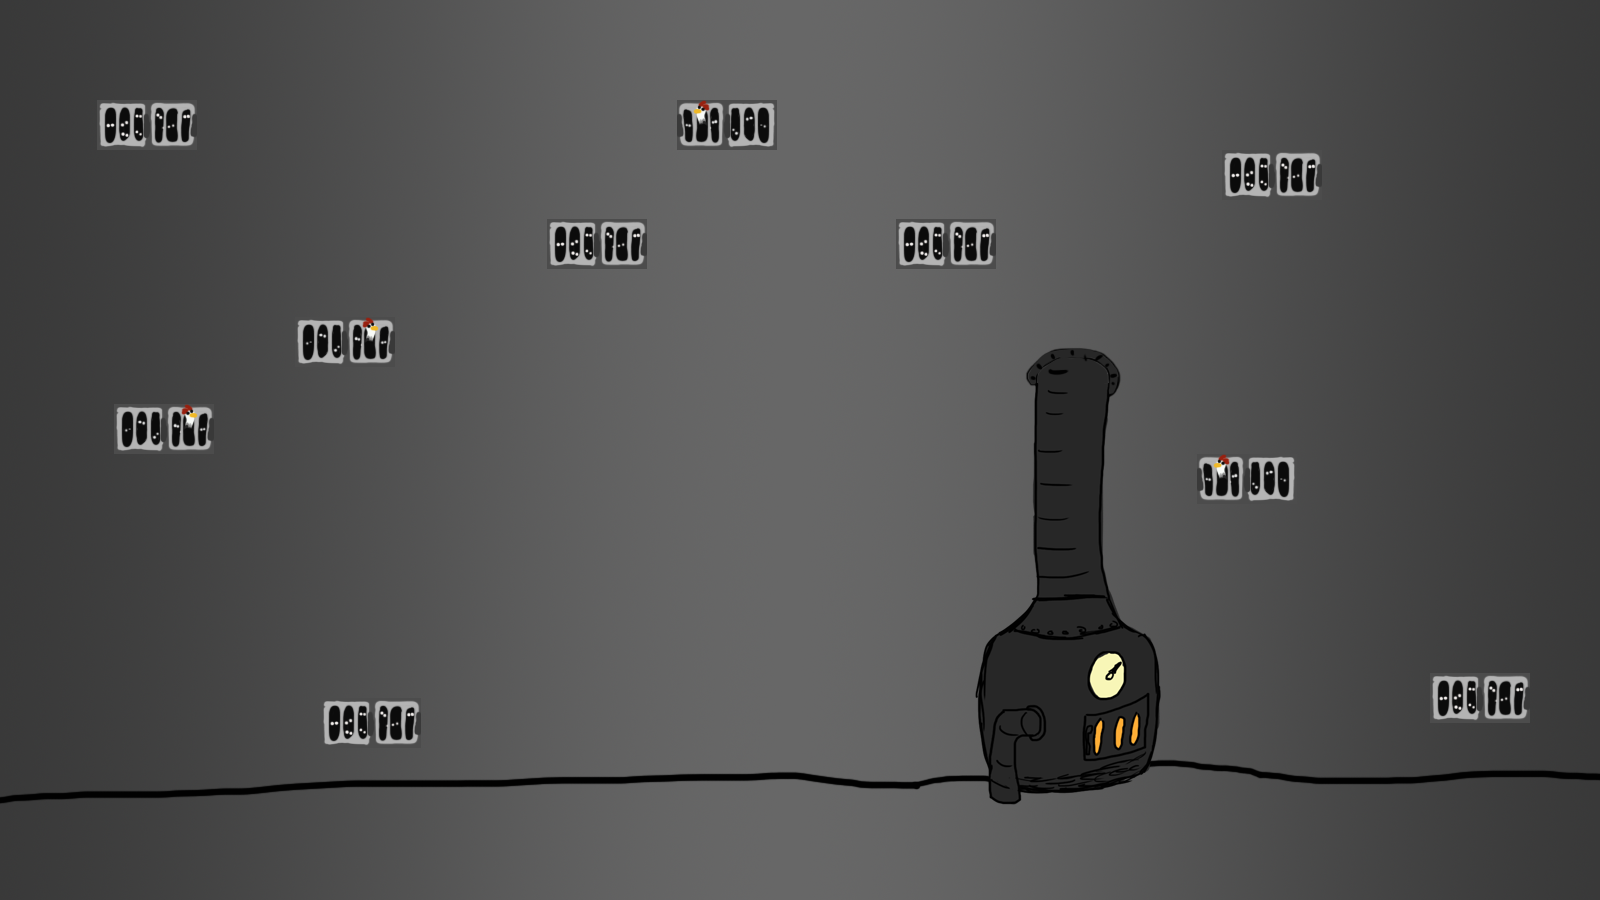
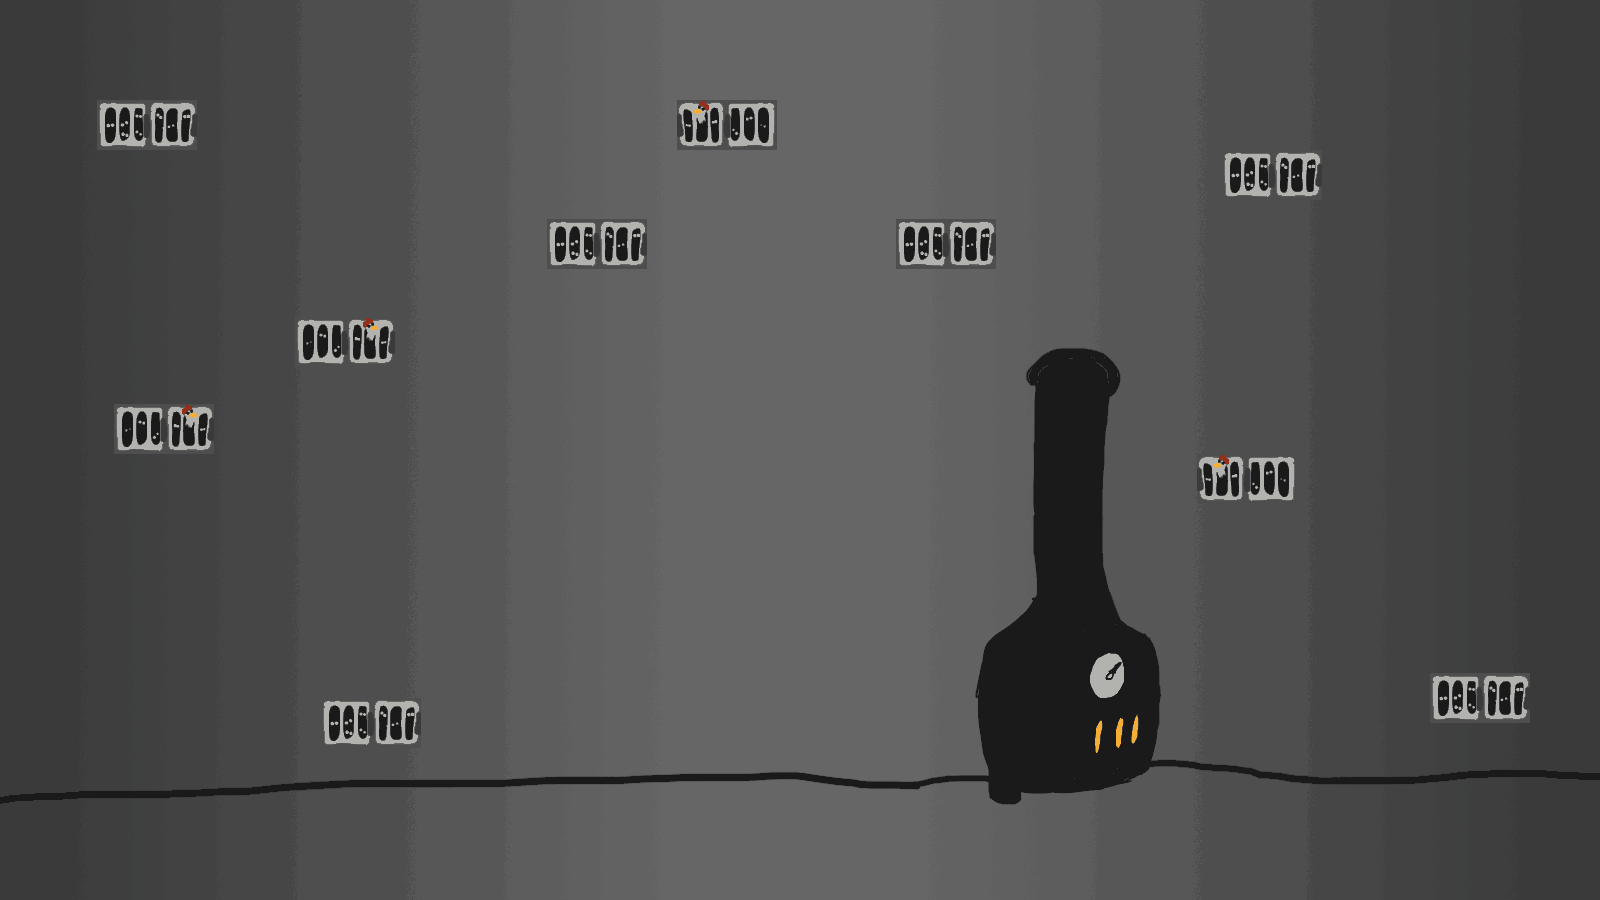
IMAGES AND ANIMATIONS!

diff --git a/player.py b/player.py
@@ -55,7 +55,7 @@ class Player(pygame.sprite.Sprite):
 
 		if self.invulnDuration < 0:
 			self.invulnDuration = 0
-		print self.invulnDuration
+		#print self.invulnDuration
 		self.parseKeys(keys)
 		self.updatePos()
 
@@ -100,9 +100,11 @@ class Player(pygame.sprite.Sprite):
 
 		if self.horizVel < 0:
 			self.horizVel =  math.ceil(self.horizVel * self.friction)
+
 		else:
 			self.horizVel = self.horizVel * self.friction	
-
+		if(abs(self.horizVel) < 1):
+			self.horizVel = 0
 		newPos = [self.worldPos[0] + deltaHoriz, self.worldPos[1]]
 
 		if not self.grounded:
@@ -127,6 +129,7 @@ class Player(pygame.sprite.Sprite):
 				self.jump = False
 				self.jumpVel = 0
 				self.grounded = True
+				self.updateState(self.enumState.STAND)
 				#newPos[1] = copy.deepcopy(collisionObj.rect.top)
 			elif newPos[1] < self.worldPos[1] and not self.grounded:
 				newPos[1] += 10
@@ -170,7 +173,14 @@ class Player(pygame.sprite.Sprite):
 
 	def updateSpriteSheet(self):
 		n = (int)(self.state)
+		print self.horizVel
+		if(self.grounded == True and self.horizVel == 0):
+				self.state = self.enumState.STAND
 		if (self.stateChanged==1):
+			if(self.grounded == False and (self.state == self.enumState.RUNLEFT or self.state == self.enumState.RUNRIGHT)):
+				self.state = self.enumState.JUMPLEFT
+			if(self.direction[0] > 0 and self.state == self.enumState.JUMPLEFT):
+				self.state = self.enumState.JUMPRIGHT
 			self.strips[n].iter()
 			self.image = self.strips[n].next()
 			self.stateChanged = 0

diff --git a/world.py b/world.py
@@ -10,6 +10,9 @@ class World():
 		self.players = pygame.sprite.Group()
 		self.player = None
 		self.clock = pygame.time.Clock()
+		bgPath1 = os.path.dirname(os.path.dirname( os.path.realpath( __file__ ) ) ) + "/osgcc/images/background1.png"
+		bgPath2 = os.path.dirname(os.path.dirname( os.path.realpath( __file__ ) ) ) + "/osgcc/images/background2.png"
+		self.bg1 = pygame.image.load(bgPath1).convert()
 
 	#gets called by main game loop to do everything
 	def Update(self):
@@ -35,7 +38,9 @@ class World():
 
 	#do all the drawing
 	def Draw(self):
-		self.screen.fill(pygame.Color(255,255,255))
+
+		#self.screen.fill(pygame.Color(255,255,255))
+		self.screen.blit(self.bg1,(0,0))
 		self.level.Draw()
 		self.players.draw(self.screen)
 		self.drawGUI()

diff --git a/platform.py b/platform.py
@@ -7,9 +7,11 @@ import math
 class Platform(pygame.sprite.Sprite):
 
 
-	def __init__(self, pos , height, width, death):
+	def __init__(self, pos , height, width, death, number):
 		pygame.sprite.Sprite.__init__(self)
-		imgPath = os.path.dirname(os.path.dirname( os.path.realpath( __file__ ) ) ) + "/osgcc/images/temp-platform.png"
+		filepath = "/osgcc/images/newplatform" + number + ".png"
+		print filepath
+		imgPath = os.path.dirname(os.path.dirname( os.path.realpath( __file__ ) ) ) + filepath
 		self.image = pygame.image.load(imgPath)
 		self.rect = self.image.get_rect()
 		self.rect.center = pos
